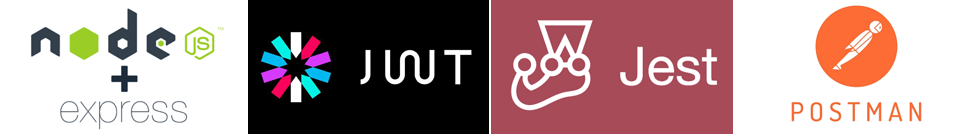
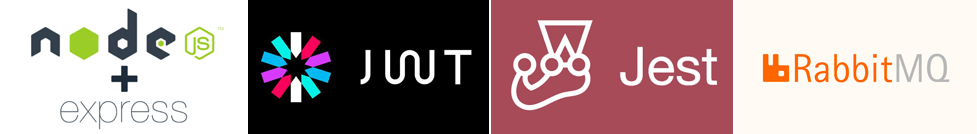
Updated ReadMe.

Changed region(s): [[0.7677, 0.0299, 0.9826, 0.6567], [0.7984, 0.7463, 0.9519, 0.9254]]

diff --git a/README.md b/README.md
@@ -8,58 +8,68 @@ This REST API web server app provides basic features:
 - logging existing users in
 - showing current BTC to UAH rate to authorized users
 
-The db files are commited for example purposes.
-
-The homework's goal is:
+The homework's goal:
 
 - to implement logs handling using RabbitMQ
+- only Error level logs are expected in stdout
 
 The homework's motto:
 
-- _Comming soon_
+- _If something complicated is not working, make it simpler._
 
 ## Note to code reviewer
 
 Hi Oleksandr!  
 &nbsp;  
-IN PROGRESS...
+Thank you for the homework task! That was something completely new to learn and try. I hope I got the task right :)  
+&nbsp;  
+At the moment there is a class ApiLogger (in logger folder) that has two methods: one for publishing a log and another for consuming logs.  
+The consumer is called in the app.js file and starts listening to any incoming messages with the routing key provided as a parameter.  
+Since the application has central error handling, the publisher is created in this central handler in app.js. Thus, when an error occurs it is eventually caught by the handler where the publisher publishes the new error log to the exchange.  
+&nbsp;  
+I do think there should be more graceful ways to implement the task :) I will be glad to hear any feedback and recommendations.  
+&nbsp;  
+Happy reviewing!
 
 ## Setting up the app locally
 
 1. Clone the repository:
 
 ```
-      git clone https://github.com/Larisa-Antsifrova/se-school-hw03-testing.git
+      git clone https://github.com/Larisa-Antsifrova/se-school-hw06-messagequeue.git
 ```
 
 2. Go to the cloned project folder:
 
 ```
-      cd se-school-hw03-testing
+      cd se-school-hw06-messagequeue
 ```
 
-3. Create .env file. Declare env variables for JWT and rates provider:
+3. Create .env file. Declare env variables as per .env.example file:
 
 ```
-      JWT_SECRET_KEY={custom secret key for JWT sign: any string}
+      JWT_SECRET_KEY={random secret string for JWT sign}
 
-      COINLAYER_API_KEY={api key for coinlayer rates api}
+      COINLAYER_API_KEY={api key for Coinlayer bitcoin rates api}
+
+      RABBITMQ_URL={rabbitmq cloud connection link}
 ```
 
-4. Install dependencies:
+4. Build docker image:
 
 ```
-      npm i
+      docker build -t webapiapp .
 ```
 
-5. Start the app in development mode:
+5. Run docker container:
 
 ```
-      npm run start:dev
+      docker run -d  -p 8877:8877 webapiapp
 ```
 
+6. Go to http://localhost:8877 in a browser. Expected result is [welcome message](#home-endpoint-response).
 
-## Endpoints
+## Endpoints to explore
 
 ### / - Home
 
@@ -90,11 +100,11 @@ ResponseBody: {
 
 Registers new users.
 
-- Name, email and password are required.
+- Name, email, and password are required.
 - The fields are validated with Joi library.
 - If the email is already in use, the error of conflict is returned.
-- If validation is successful and email is unique, the password is hashed and the new user is saved in database.
-- No authentication token is returned in case verification stage will be added (for example, verification via e-mail).
+- If validation is successful and the email is unique, the password is hashed and the new user is saved in the database.
+- No authentication token is returned in case the verification stage will be added (for example, verification via e-mail).
 
 #### Registration request
 
@@ -150,9 +160,9 @@ Authenticates a user.
 
 - Email and password are required.
 - The fields are validated only for their presence.
-- If a user with the provided e-mail and/or password does not exist in database, general error message is returned.
+- If a user with the provided e-mail and/or password does not exist in the database, a general error message is returned.
 - If validation is successful and credentials are right, the JSON Web Token is created and returned.
-- JWT has limited life span.
+- JWT has a limited life span.
 
 #### Login request
 
@@ -213,7 +223,7 @@ Provides current rate of BTC to UAH.
 
 - The endpoint is available only for authenticated users.
 - isAuthenticated middleware verifies JWT in Authorization header (Bearer token).
-- If the provided JWT is valid the endpoint returns current rate of 1 BTC to UAH.
+- If the provided JWT is valid the endpoint returns the current rate of 1 BTC to UAH.
 - [Coinlayer API](https://coinlayer.com/documentation) is used to get the rate.
 
 #### Current BTC to UAH rate request
@@ -242,26 +252,26 @@ ResponseBody: {
 
 ## Structure
 
-| File/Folder     | Description                                                        | Example                                               |
-| :-------------- | :----------------------------------------------------------------- | :---------------------------------------------------- |
-| app.js          | Project's app starting point                                       | -                                                     |
-| server.js       | Project's server set up and listening                              | -                                                     |
-| configs         | Configurations of specific service classes and api characteristics | validation-config, repository-config, services-config |
-| controllers     | Endpoints' handlers                                                | home-controllers, user-controllers                    |
-| db              | Two file system databases: for testing and for development         | test-db                                               |
-| docs            | Application's desired architecture diagram                         | web-btc-api-arch                                      |
-| exceptions      | Class to generate custom api errors                                | api-errors                                            |
-| fs_odm          | Layer to word directly with file system                            | fs-db-mapper                                          |
-| helpers         | Project's constants                                                | HTTP codes, Messages                                  |
-| http            | Configured axios client                                            | axios-coinlayer                                       |
-| middleware      | Middleware functions                                               | isAuthenticated, validation                           |
-| rates_providers | Configured providers of rates                                      | coinlayer-provider                                    |
-| repositories    | CRUD methods to work with database collections                     | users-repository                                      |
-| routes          | Endpoints                                                          | /user/create, /user/login                             |
-| services        | Classes to work with app's services                                | auth-service, password-service                        |
-| tests           | Unit and integration tests                                         | auth-service.test, password-service.test              |
-| tests_postman   | Tests for Postman collection                                       | postman-collection                                    |
-| .example.env    | Info about expected environment variables                          | JWT_SECRET_KEY                                        |
+| File/Folder     | Description                                                        |
+| :-------------- | :----------------------------------------------------------------- |
+| app.js          | Project's app starting point                                       |
+| server.js       | Project's server set up and listening                              |
+| configs         | Configurations of specific service classes and api characteristics |
+| controllers     | Endpoints' handlers                                                |
+| db              | Two file system databases: for testing and development             |
+| exceptions      | Class to generate custom api errors                                |
+| fs_odm          | Layer to word directly with file system                            |
+| helpers         | Project's constants                                                |
+| http            | Configured axios client                                            |
+| logger          | Class of api logger                                                |
+| middleware      | Middleware functions                                               |
+| rates_providers | Configured providers of rates                                      |
+| repositories    | CRUD methods to work with database collections                     |
+| routes          | Endpoints                                                          |
+| services        | Classes to work with app's services                                |
+| tests           | Unit and integration tests                                         |
+| tests_postman   | Tests for Postman collection                                       |
+| .example.env    | Info about expected environment variables                          |
 
 ## Tools
 
@@ -279,6 +289,7 @@ ResponseBody: {
 - [newman](https://www.npmjs.com/package/newman) - for launching authomated tests in cli.
 - [newman-reporter-htmlextra](https://www.npmjs.com/package/newman-reporter-htmlextra) - for generating automated tests report.
 - [IDE Jest extention](https://github.com/jest-community/vscode-jest) - for tracking running tests while typing.
+- [Docker](https://docs.docker.com/) - for spinning up a container with the app.
 
 ## Resources
 
@@ -288,5 +299,6 @@ Rates provider:
 
 Message Queue:
 
-- IN PROGRESS...
-
+- [RabbitMQ Docs](https://www.rabbitmq.com/documentation.html)
+- [RabbitMQ Tutorials: Routing](https://www.rabbitmq.com/tutorials/tutorial-four-javascript.html)
+- [CloudAMQP](https://www.cloudamqp.com/)
